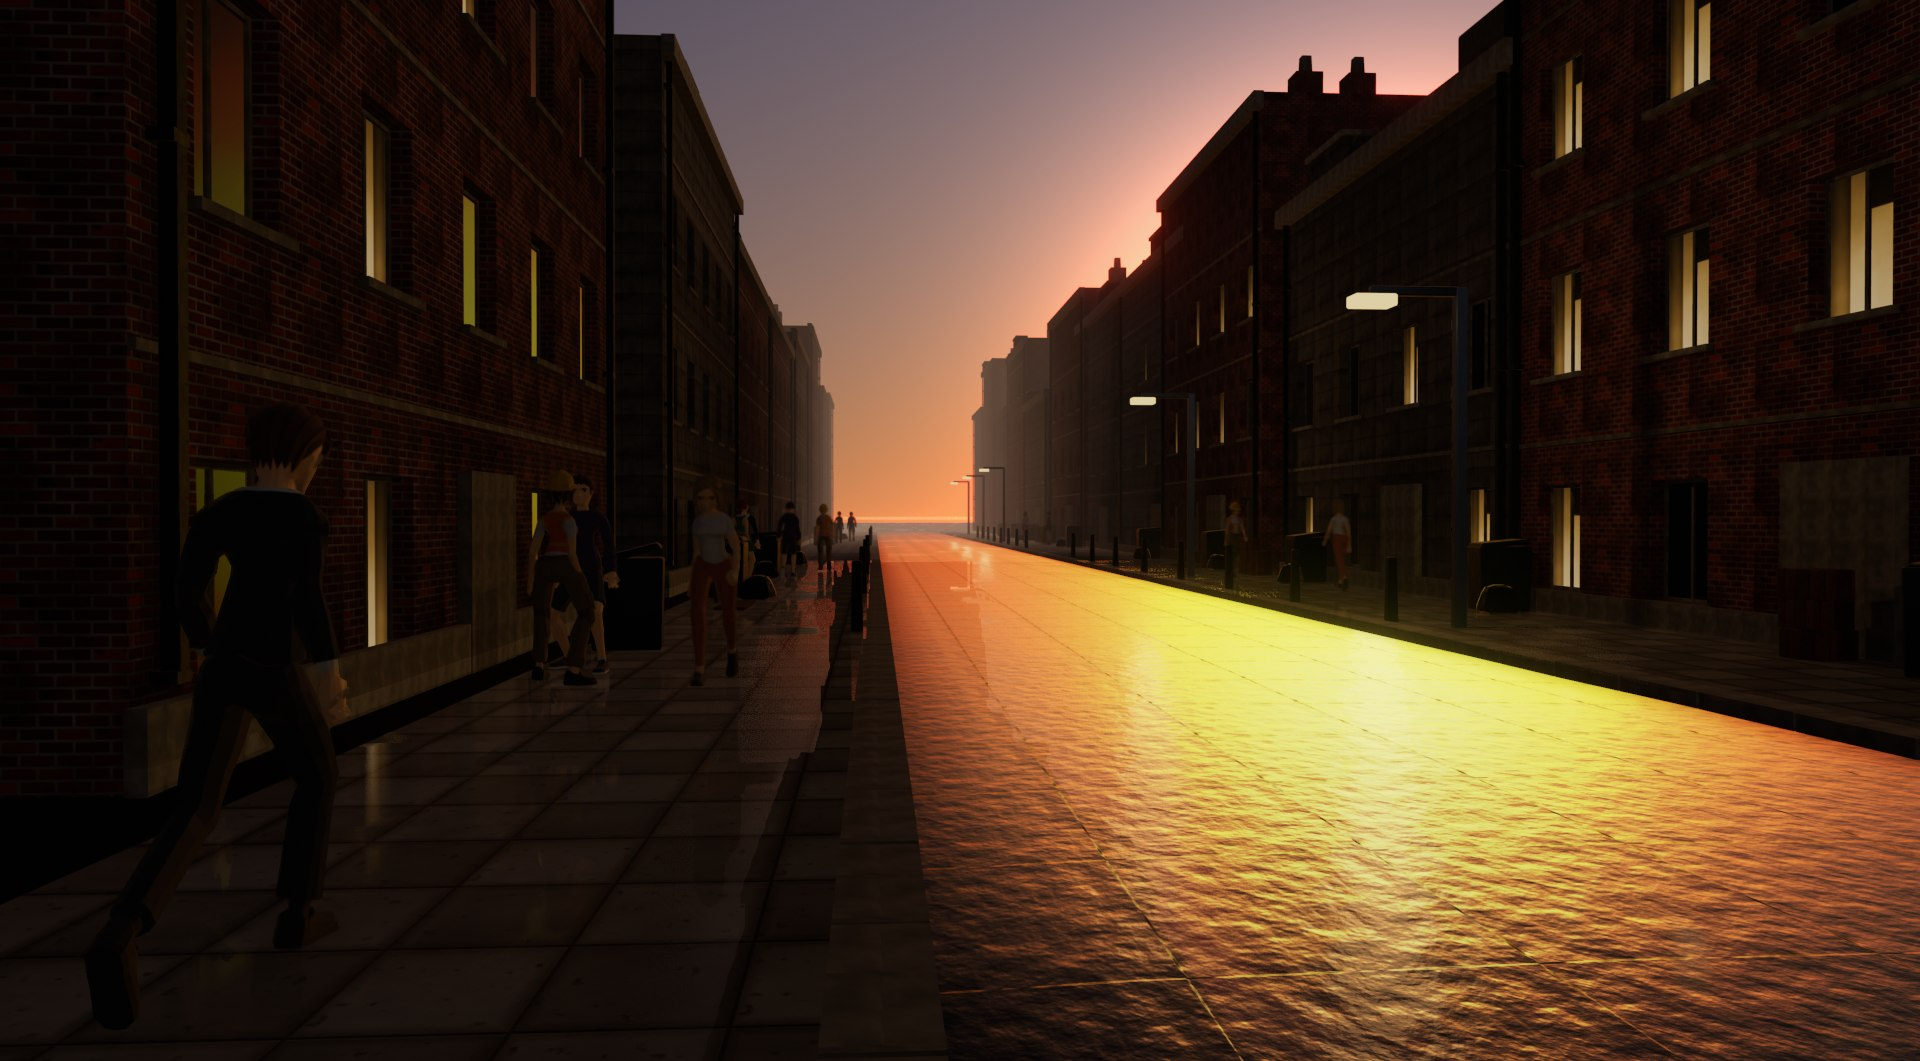
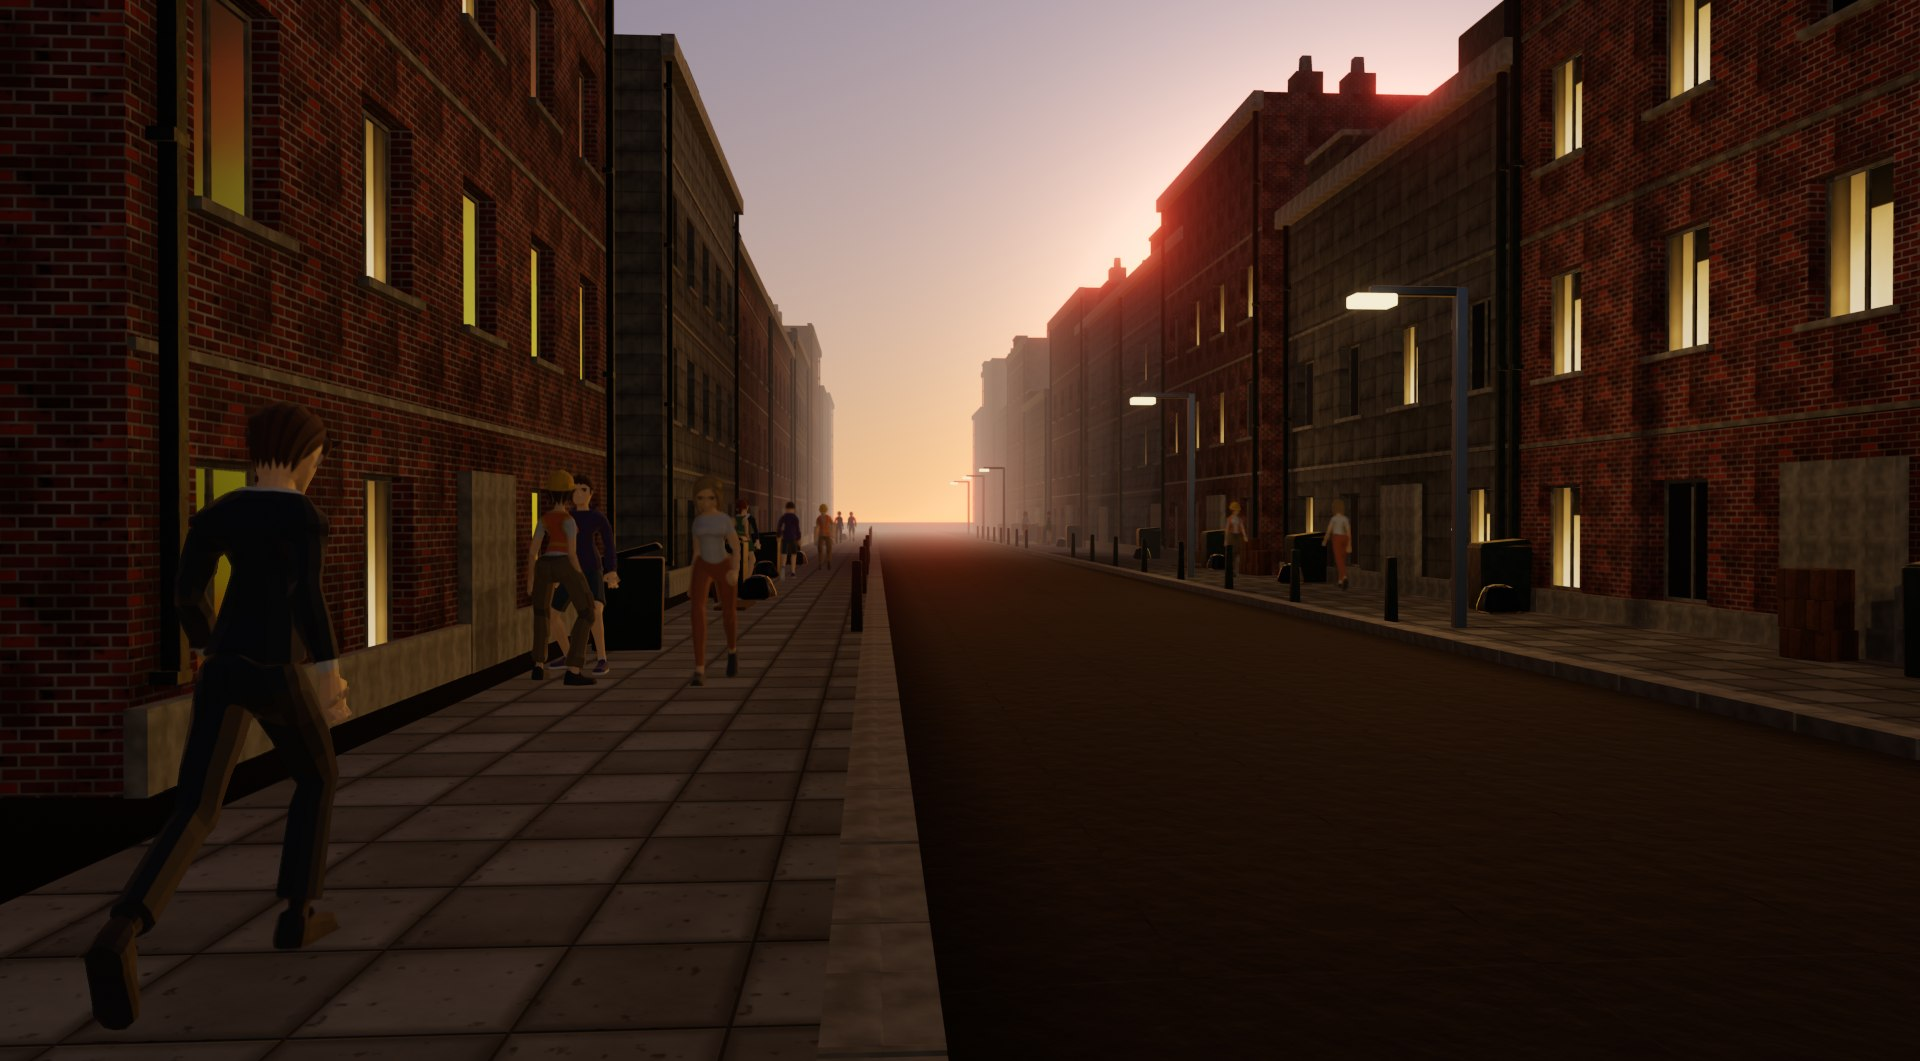
street_life: a dry evening road, not a mirror (#902)
The road was too reflective (the owner, watching it). It was built as
street_drive's rainy night road in every scene that used the street:
- half a mirror (reflectivity 0.5);
- the export's rain-glossy material, lit by a low sun into a gold band;
- the wet-road reflections pass (shaders.ssr) laying its puddles over it
  at 0.75.

examples/lib/street's block takes how wet the ground is, 0 dry to 1
soaked. Wet, the road keeps the export's material and mirrors at 0.5,
so street_drive (wet 1) is unchanged. Dry, the road is matte tarmac
(roughness 0.9, reflectivity 0.06). street_life is dry by default, with
AE3D_WET to wet it; its SSR strength is the street's wetness times
street_drive's 0.75, so a dry road has no puddles. At 0.15 they still
showed, with #920's stepped edge.

The README's hero and walking GIF are made again on the dry road.

diff --git a/README.md b/README.md
@@ -5,7 +5,7 @@
 
 **A 3D game engine for open worlds full of people, written in [Aether](https://github.com/aether-lang-dev/aether): streets and crowds, characters that move like people, physics, weather and multiplayer. Programs can drive it and check it.**
 
-![A street of brick terraces at half past five, the wet road gold under a low sun, people walking the pavements and two talking by a door](docs/images/hero.jpg)
+![A street of brick terraces at half past five, the low sun at its end, people walking the pavements and two talking by a door](docs/images/hero.jpg)
 
 <sub>`examples/street_life`, an unedited Vulkan frame. Quaternius's CC0 people walk and talk on the animation pipeline: gaits retargeted from authored clips, feet held on the paving and kerbs, the light ray-traced.</sub>
 
